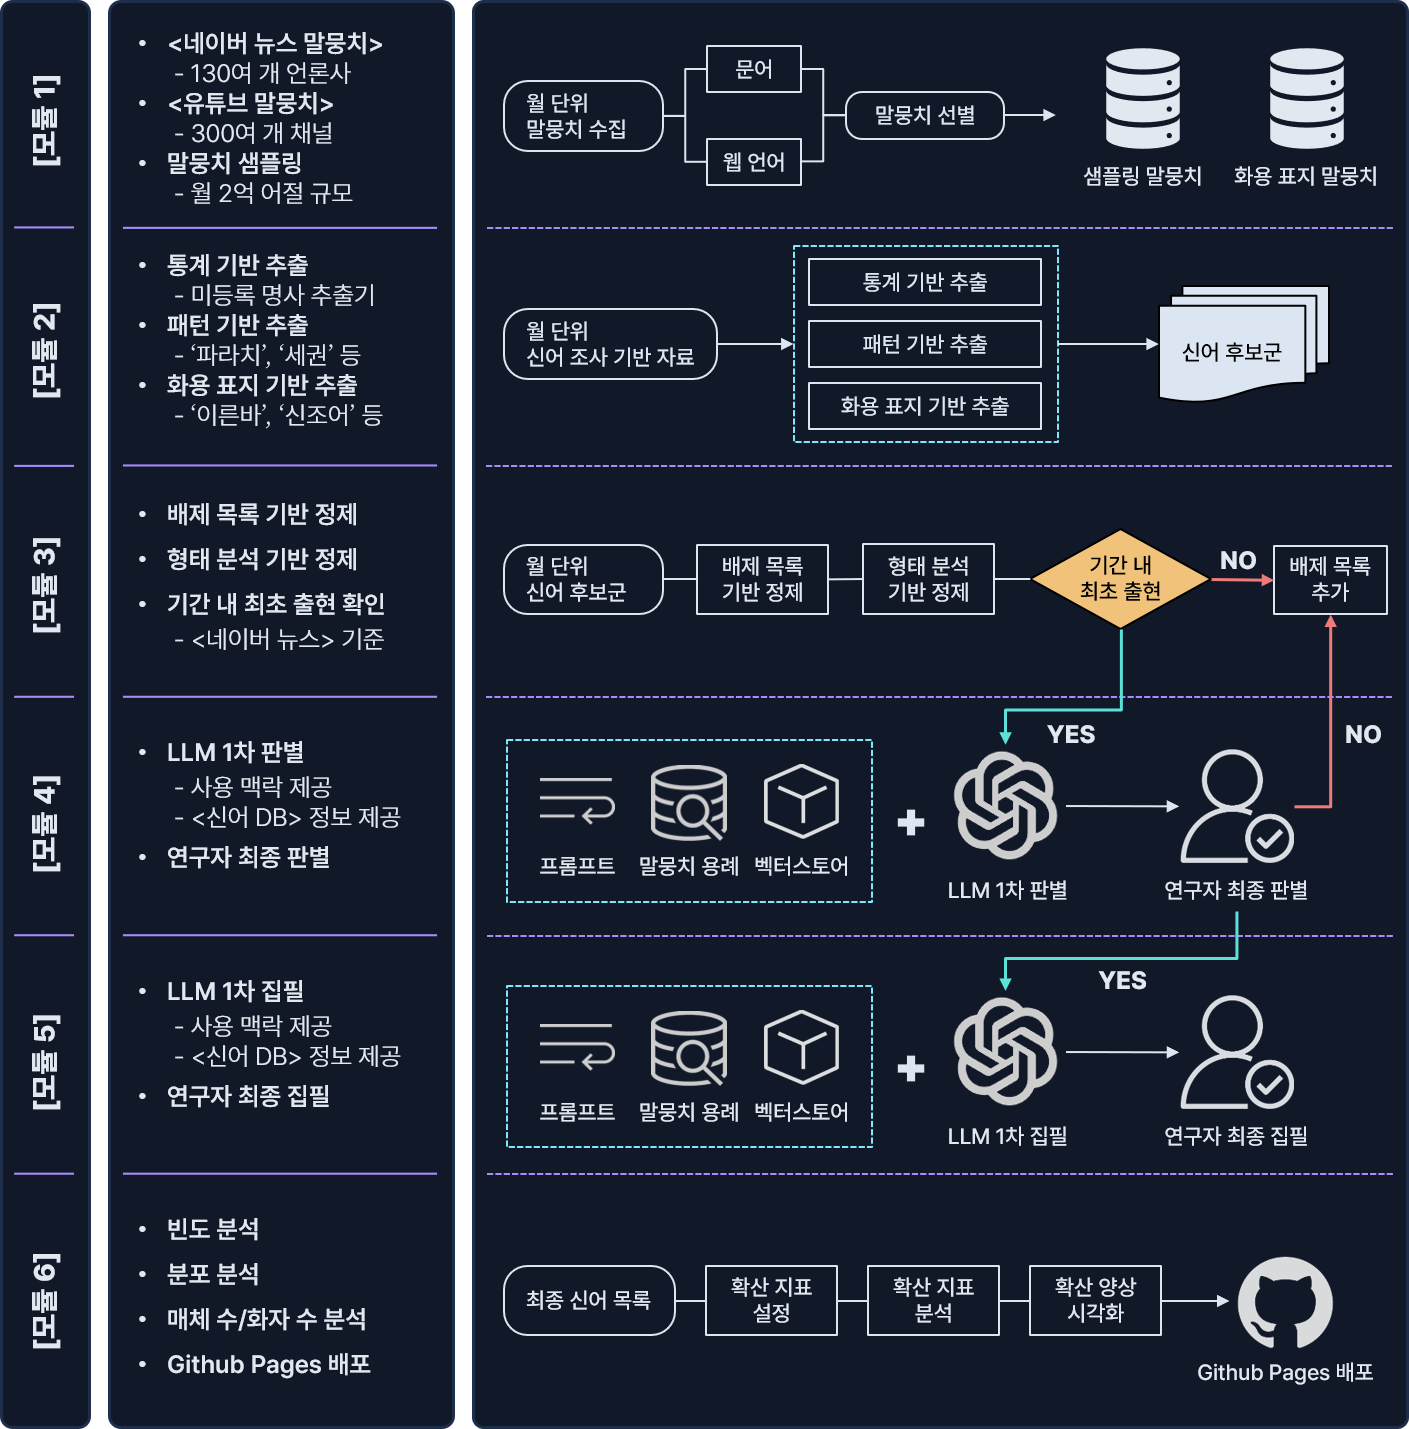
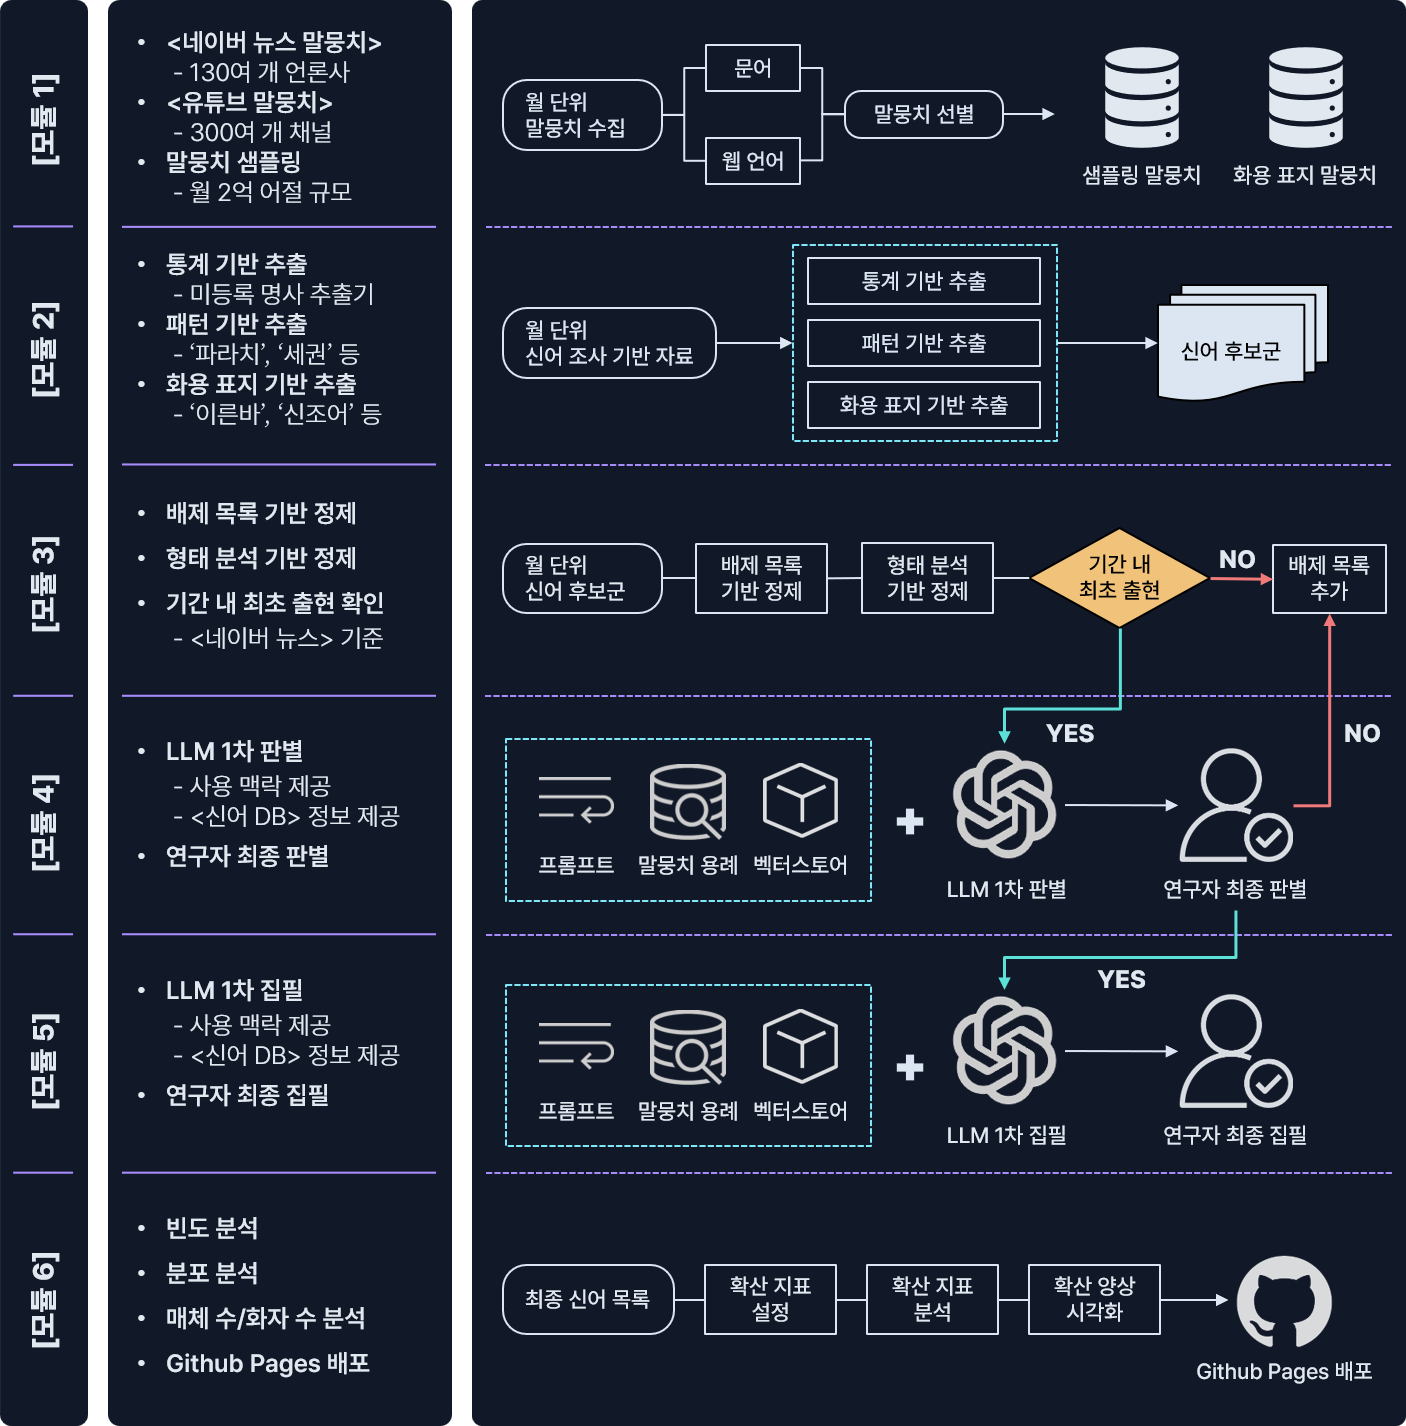
Update

diff --git a/README.md b/README.md
@@ -3,7 +3,7 @@
 
 ## 1. 개요
 
-![K-NOVA](/docs/img/K-NOVA.jpg)
+![K-NOVA](/docs/img/K-NOVA.png)
 
 'NOVA'는 새롭게 나타나는 별, 신성(新星)을 뜻합니다.
 
